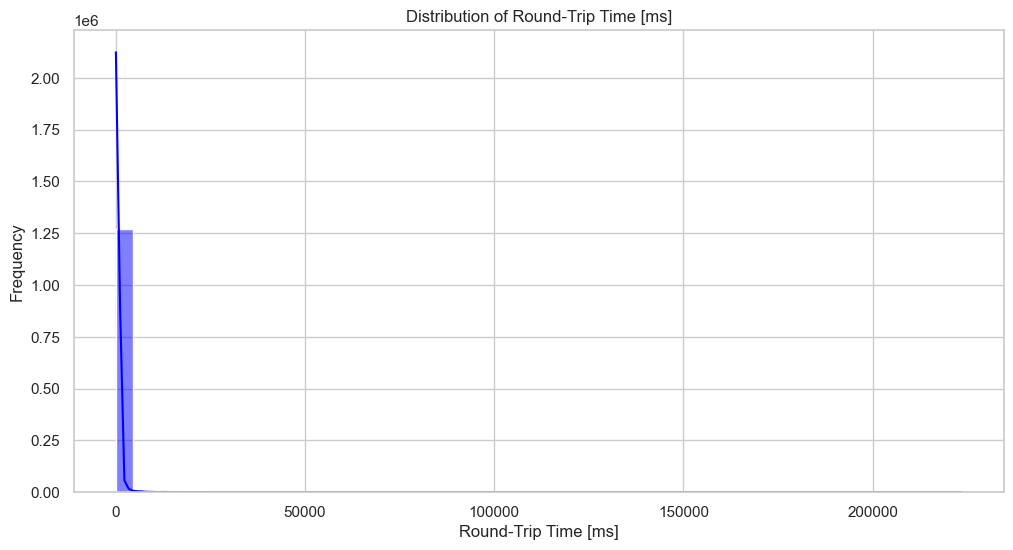
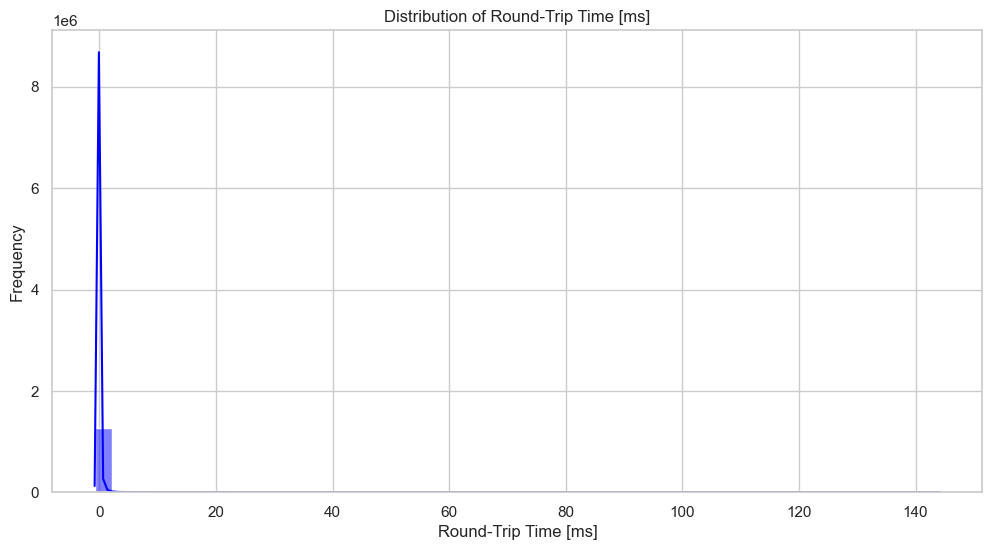
some changes made.

diff --git a/project-root/src/data_processing.py b/project-root/src/data_processing.py
@@ -1,5 +1,6 @@
 import pandas as pd
 import os
+from sklearn.preprocessing import StandardScaler
 
 def process_chunk(chunk):
     """
@@ -14,16 +15,34 @@ def process_chunk(chunk):
     # Drop rows with missing values in critical columns
     chunk = chunk.dropna(subset=['Login Timestamp', 'User ID', 'Round-Trip Time [ms]', 'IP Address', 'Country'])
 
-    # Convert 'Login Timestamp' to datetime format using .loc
+    # Convert 'Login Timestamp' to datetime format using .loc[] to avoid SettingWithCopyWarning
     chunk.loc[:, 'Login Timestamp'] = pd.to_datetime(chunk['Login Timestamp'], errors='coerce')
 
-    # Convert 'Round-Trip Time [ms]' to numeric type using .loc
+    # Drop rows where 'Login Timestamp' couldn't be converted
+    chunk = chunk.dropna(subset=['Login Timestamp'])
+
+    # Convert 'Round-Trip Time [ms]' to numeric type
     chunk.loc[:, 'Round-Trip Time [ms]'] = pd.to_numeric(chunk['Round-Trip Time [ms]'], errors='coerce')
 
-    # Convert 'Login Successful', 'Is Attack IP', 'Is Account Takeover' to boolean using .loc
-    chunk.loc[:, 'Login Successful'] = chunk['Login Successful'].astype(bool)
-    chunk.loc[:, 'Is Attack IP'] = chunk['Is Attack IP'].astype(bool)
-    chunk.loc[:, 'Is Account Takeover'] = chunk['Is Account Takeover'].astype(bool)
+    # Normalize 'Round-Trip Time [ms]' using StandardScaler
+    scaler = StandardScaler()
+    chunk['Round-Trip Time [ms]'] = scaler.fit_transform(chunk[['Round-Trip Time [ms]']])
+
+    # Convert categorical columns to category dtype for better performance
+    chunk['Country'] = chunk['Country'].astype('category')
+    chunk['Browser Name and Version'] = chunk['Browser Name and Version'].astype('category')
+
+    # Encode categorical columns
+    chunk['Country'] = chunk['Country'].cat.codes
+    chunk['Browser Name and Version'] = chunk['Browser Name and Version'].cat.codes
+
+    # Convert 'Login Successful', 'Is Attack IP', 'Is Account Takeover' to boolean
+    chunk['Login Successful'] = chunk['Login Successful'].astype(bool)
+    chunk['Is Attack IP'] = chunk['Is Attack IP'].astype(bool)
+    chunk['Is Account Takeover'] = chunk['Is Account Takeover'].astype(bool)
+
+    # Drop unnecessary columns (modify as needed)
+    chunk = chunk.drop(columns=['IP Address', 'User Agent String'])
 
     return chunk
 
@@ -32,8 +51,8 @@ def main():
     Main function to load, process, and save the data.
     """
     # Define file paths
-    file_path = ''
-    processed_file_path = ''
+    file_path = '/Users/kaushalkento/Desktop/GroupProject./CAPTCHARefinement./project-root/data/rba-dataset.csv'
+    processed_file_path = '/Users/kaushalkento/Desktop/GroupProject./CAPTCHARefinement./project-root/data/processed1_rba-dataset.csv'
 
     # Ensure the 'data' directory exists
     os.makedirs(os.path.dirname(processed_file_path), exist_ok=True)
@@ -49,7 +68,6 @@ def main():
     # Initialize an empty DataFrame to hold processed data
     processed_data = pd.DataFrame()
 
-    # Process the CSV file in chunks
     try:
         for chunk in pd.read_csv(file_path, chunksize=chunk_size):
             print(f"Processing chunk of size {len(chunk)}")

diff --git a/project-root/src/model_training.py b/project-root/src/model_training.py
@@ -1,0 +1,112 @@
+import pandas as pd
+from sklearn.model_selection import train_test_split
+from sklearn.ensemble import RandomForestClassifier
+from sklearn.metrics import accuracy_score, classification_report, confusion_matrix
+import joblib
+
+def load_data(file_path):
+    """
+    Load the processed data from a CSV file.
+
+    Parameters:
+    - file_path: Path to the processed CSV file.
+
+    Returns:
+    - DataFrame with the loaded data.
+    """
+    return pd.read_csv(file_path)
+
+def preprocess_data(df):
+    """
+    Prepare data for training by separating features and target labels.
+
+    Parameters:
+    - df: DataFrame containing the processed data.
+
+    Returns:
+    - X: Features DataFrame.
+    - y: Target labels.
+    """
+    # Define features and target label
+    X = df.drop(columns=['Is Attack IP'])  # Modify target column as needed
+    y = df['Is Attack IP']
+
+    return X, y
+
+def train_model(X_train, y_train):
+    """
+    Train a machine learning model on the provided training data.
+
+    Parameters:
+    - X_train: Features for training.
+    - y_train: Labels for training.
+
+    Returns:
+    - Trained model.
+    """
+    # Initialize the model (RandomForestClassifier is used as an example)
+    model = RandomForestClassifier(n_estimators=100, random_state=42)
+
+    # Train the model
+    model.fit(X_train, y_train)
+
+    return model
+
+def evaluate_model(model, X_test, y_test):
+    """
+    Evaluate the trained model on the test data.
+
+    Parameters:
+    - model: The trained model.
+    - X_test: Features for testing.
+    - y_test: Labels for testing.
+    """
+    # Make predictions
+    y_pred = model.predict(X_test)
+
+    # Calculate accuracy
+    accuracy = accuracy_score(y_test, y_pred)
+    print(f"Accuracy: {accuracy:.4f}")
+
+    # Print classification report
+    print("Classification Report:")
+    print(classification_report(y_test, y_pred))
+
+    # Print confusion matrix
+    print("Confusion Matrix:")
+    print(confusion_matrix(y_test, y_pred))
+
+def save_model(model, file_path):
+    """
+    Save the trained model to a file.
+
+    Parameters:
+    - model: The trained model.
+    - file_path: Path to save the model.
+    """
+    joblib.dump(model, file_path)
+    print(f"Model saved to {file_path}")
+
+def main():
+    # Define file paths
+    processed_file_path = '/Users/kaushalkento/Desktop/GroupProject./CAPTCHARefinement./project-root/data/processed_rba-dataset.csv'
+    model_file_path = '/Users/kaushalkento/Desktop/GroupProject./CAPTCHARefinement./project-root/models/rba_model.pkl'
+
+    # Load and preprocess data
+    df = load_data(processed_file_path)
+    X, y = preprocess_data(df)
+
+    # Split the data into training and test sets
+    X_train, X_test, y_train, y_test = train_test_split(X, y, test_size=0.2, random_state=42)
+
+    # Train the model
+    model = train_model(X_train, y_train)
+
+    # Evaluate the model
+    evaluate_model(model, X_test, y_test)
+
+    # Save the trained model
+    save_model(model, model_file_path)
+
+if __name__ == "__main__":
+    main()

diff --git a/project-root/src/visualizations/visualizations.py b/project-root/src/visualizations/visualizations.py
@@ -1,11 +1,9 @@
-# File: project-root/src/visualizations/visualizations.py
-
 import pandas as pd
 import matplotlib.pyplot as plt
 import seaborn as sns
 
 # Load the processed data
-file_path = '/Users/kaushalkento/Desktop/GroupProject./CAPTCHARefinement./project-root/data/processed_rba-dataset.csv'
+file_path = '/Users/kaushalkento/Desktop/GroupProject./CAPTCHARefinement./project-root/data/processed1_rba-dataset.csv'
 data = pd.read_csv(file_path)
 
 # Define a function to save and show plots
@@ -26,7 +24,7 @@ save_and_show_plot(plt.gcf(), 'distribution_round_trip_time.png')
 
 # Distribution of 'Login Successful'
 plt.figure(figsize=(8, 6))
-sns.countplot(x='Login Successful', data=data, palette='viridis')
+sns.countplot(x='Login Successful', data=data, hue='Login Successful', palette='viridis', legend=False)
 plt.title('Login Success vs. Failure')
 plt.xlabel('Login Successful')
 plt.ylabel('Count')
@@ -34,7 +32,7 @@ save_and_show_plot(plt.gcf(), 'login_success_vs_failure.png')
 
 # Distribution of 'Is Attack IP'
 plt.figure(figsize=(8, 6))
-sns.countplot(x='Is Attack IP', data=data, palette='viridis')
+sns.countplot(x='Is Attack IP', data=data, hue='Is Attack IP', palette='viridis', legend=False)
 plt.title('Attack IP Distribution')
 plt.xlabel('Is Attack IP')
 plt.ylabel('Count')
@@ -42,7 +40,7 @@ save_and_show_plot(plt.gcf(), 'attack_ip_distribution.png')
 
 # Distribution of 'Is Account Takeover'
 plt.figure(figsize=(8, 6))
-sns.countplot(x='Is Account Takeover', data=data, palette='viridis')
+sns.countplot(x='Is Account Takeover', data=data, hue='Is Account Takeover', palette='viridis', legend=False)
 plt.title('Account Takeover Distribution')
 plt.xlabel('Is Account Takeover')
 plt.ylabel('Count')
@@ -50,7 +48,7 @@ save_and_show_plot(plt.gcf(), 'account_takeover_distribution.png')
 
 # Boxplot of 'Round-Trip Time [ms]' by 'Is Attack IP'
 plt.figure(figsize=(12, 6))
-sns.boxplot(x='Is Attack IP', y='Round-Trip Time [ms]', data=data, palette='Set2')
+sns.boxplot(x='Is Attack IP', y='Round-Trip Time [ms]', data=data, hue='Is Attack IP', palette='Set2', legend=False)
 plt.title('Round-Trip Time [ms] by Attack IP')
 plt.xlabel('Is Attack IP')
 plt.ylabel('Round-Trip Time [ms]')
@@ -58,7 +56,7 @@ save_and_show_plot(plt.gcf(), 'round_trip_time_by_attack_ip.png')
 
 # Boxplot of 'Round-Trip Time [ms]' by 'Is Account Takeover'
 plt.figure(figsize=(12, 6))
-sns.boxplot(x='Is Account Takeover', y='Round-Trip Time [ms]', data=data, palette='Set2')
+sns.boxplot(x='Is Account Takeover', y='Round-Trip Time [ms]', data=data, hue='Is Account Takeover', palette='Set2', legend=False)
 plt.title('Round-Trip Time [ms] by Account Takeover')
 plt.xlabel('Is Account Takeover')
 plt.ylabel('Round-Trip Time [ms]')
